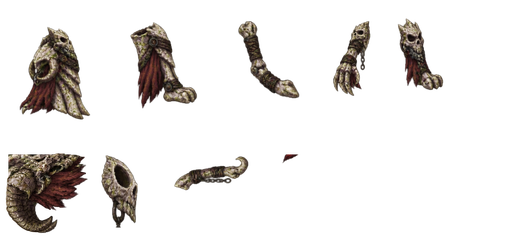
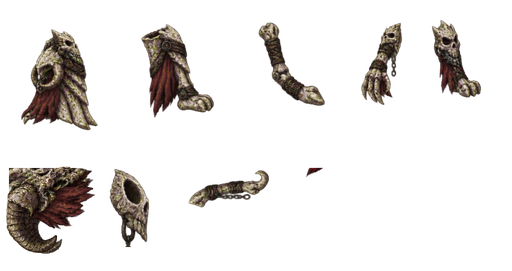
fliped monsters

diff --git a/src/tv/engine/GameEngine.ts b/src/tv/engine/GameEngine.ts
@@ -191,6 +191,7 @@ interface MonsterRig {
   height: number; // approximate on-screen height in px, used to aim move VFX at heads/mouths
   skin?: string;
   offY?: number;
+  centerRoot?: boolean; // root bone is exported off the origin: zero it so the feet sit on the slot
 }
 
 // Spine 4.2 monster rigs (public/assets/spine/monsters).
@@ -292,8 +293,8 @@ const MONSTER_RIGS: Record<MonsterSprite, MonsterRig> = {
   BONE_GOLEM: {
     skeleton: `${MONSTER_DIR}/bone-golem/Boss_Swamp_golem.json`,
     atlas: `${MONSTER_TV_DIR}/bone-golem/Boss_Swamp_golem.atlas`,
-    scale: 0.058,
-    height: 68,
+    scale: 0.07,
+    height: 82,
     idle: 'Idle',
     attack: 'Attack01',
     heavyAttack: 'Attack01',
@@ -345,6 +346,7 @@ const MONSTER_RIGS: Record<MonsterSprite, MonsterRig> = {
     heavyAttack: 'skill1',
     hit: 'hurt',
     death: 'death',
+    flipX: false, // authored facing left
   },
   DEMON_ARCHBISHOP: {
     skeleton: `${MONSTER_DIR}/demon-monk/Boss_Archbishop.json`,
@@ -562,6 +564,8 @@ const MONSTER_RIGS: Record<MonsterSprite, MonsterRig> = {
     heavyAttack: 'movement_ide',
     hit: 'movement_ide',
     death: 'movement_ide',
+    flipX: false, // authored facing left
+    centerRoot: true,
   },
   SKELETON_WARRIOR: {
     skeleton: `${MONSTER_DIR}/skeleton-warrior/skeleton_worrior.json`,
@@ -630,7 +634,6 @@ const MONSTER_RIGS: Record<MonsterSprite, MonsterRig> = {
     heavyAttack: 'Attack01',
     hit: 'Hit',
     death: 'Dead',
-    flipX: false, // authored facing left
   },
   WRAITH: {
     skeleton: `${MONSTER_DIR}/wraith/specter.json`,
@@ -2078,6 +2081,13 @@ export class GameEngine {
         if (this.app) spine.ticker = this.app.ticker;
         if (rig.flipX !== false) {
           spine.scale.x *= -1; // face knight on the left
+        }
+        if (rig.centerRoot) {
+          const root = spine.skeleton.getRootBone();
+          if (root) {
+            root.data.x = root.data.y = 0; // shared skeleton data; idempotent across instances
+            root.setToSetupPose();
+          }
         }
 
         // Variant Skin or default rig skin

diff --git a/src/tv/engine/moves/undeadMoves.ts b/src/tv/engine/moves/undeadMoves.ts
@@ -764,7 +764,7 @@ const skknightPhantomTrample: MoveFn = (h, tl) => {
       g.ellipse(p.x, p.y, 2, 0.8).fill({ color: 0xDCFCE7, alpha: 1 - t });
     }
   }, 'ground');
-  tl.at(50, () => {
+  tl.at(55, () => {
     land(h, { kb: 18, shake: 16, stop: 7, flash: 0.55, color: 0x4ADE80, colors: [...GRAVEFIRE, BONE], ring: 0x22C55E, sound: 'impact_crit' });
     h.camera(1.28, h.knight.x, h.knight.y - 30, 20);
   });
